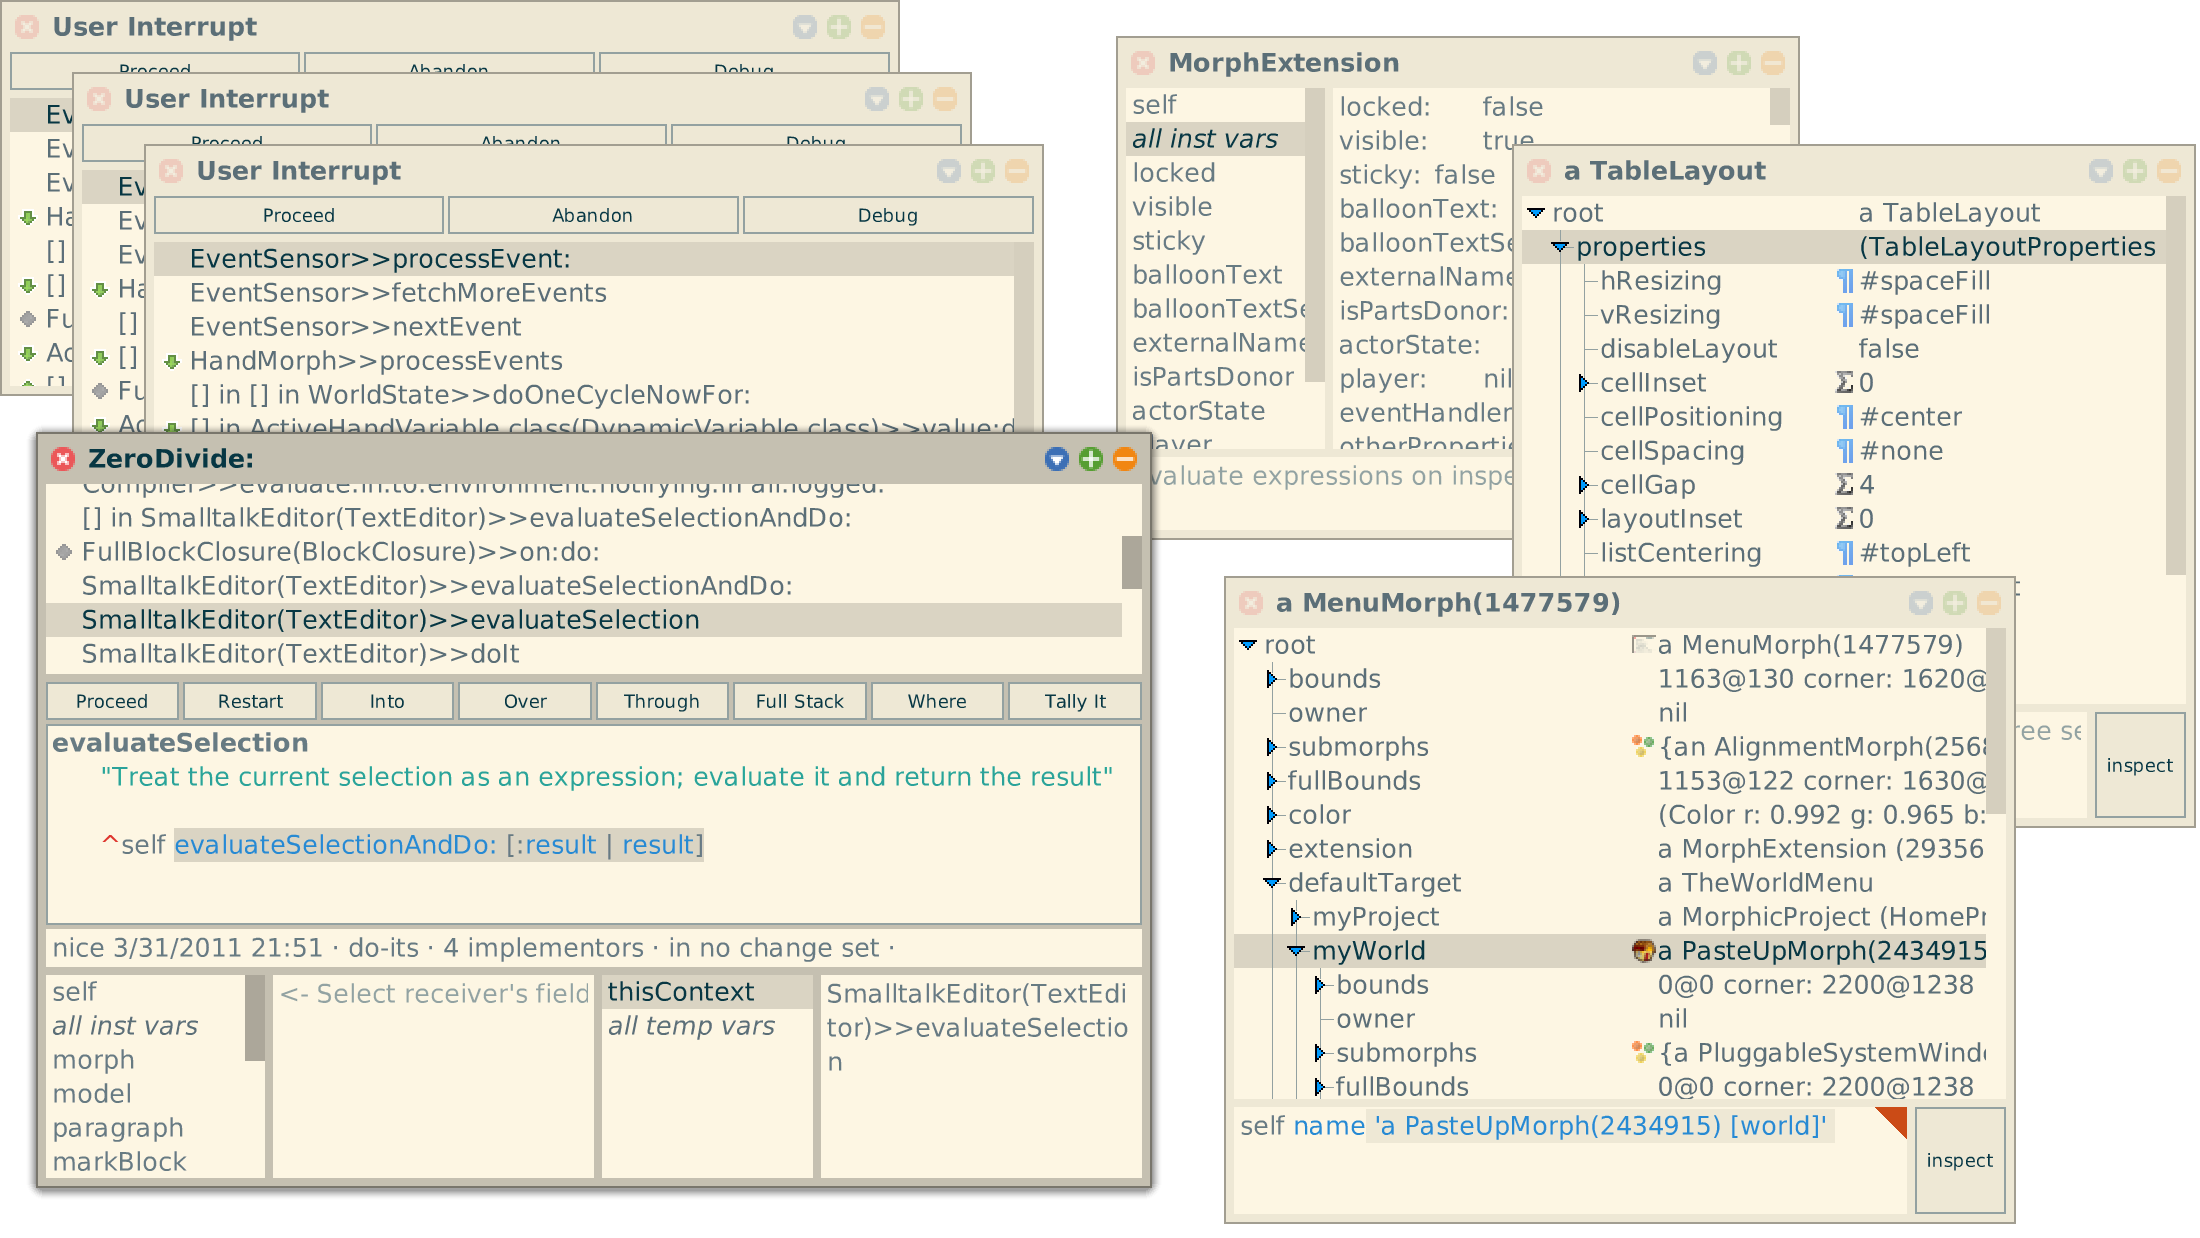
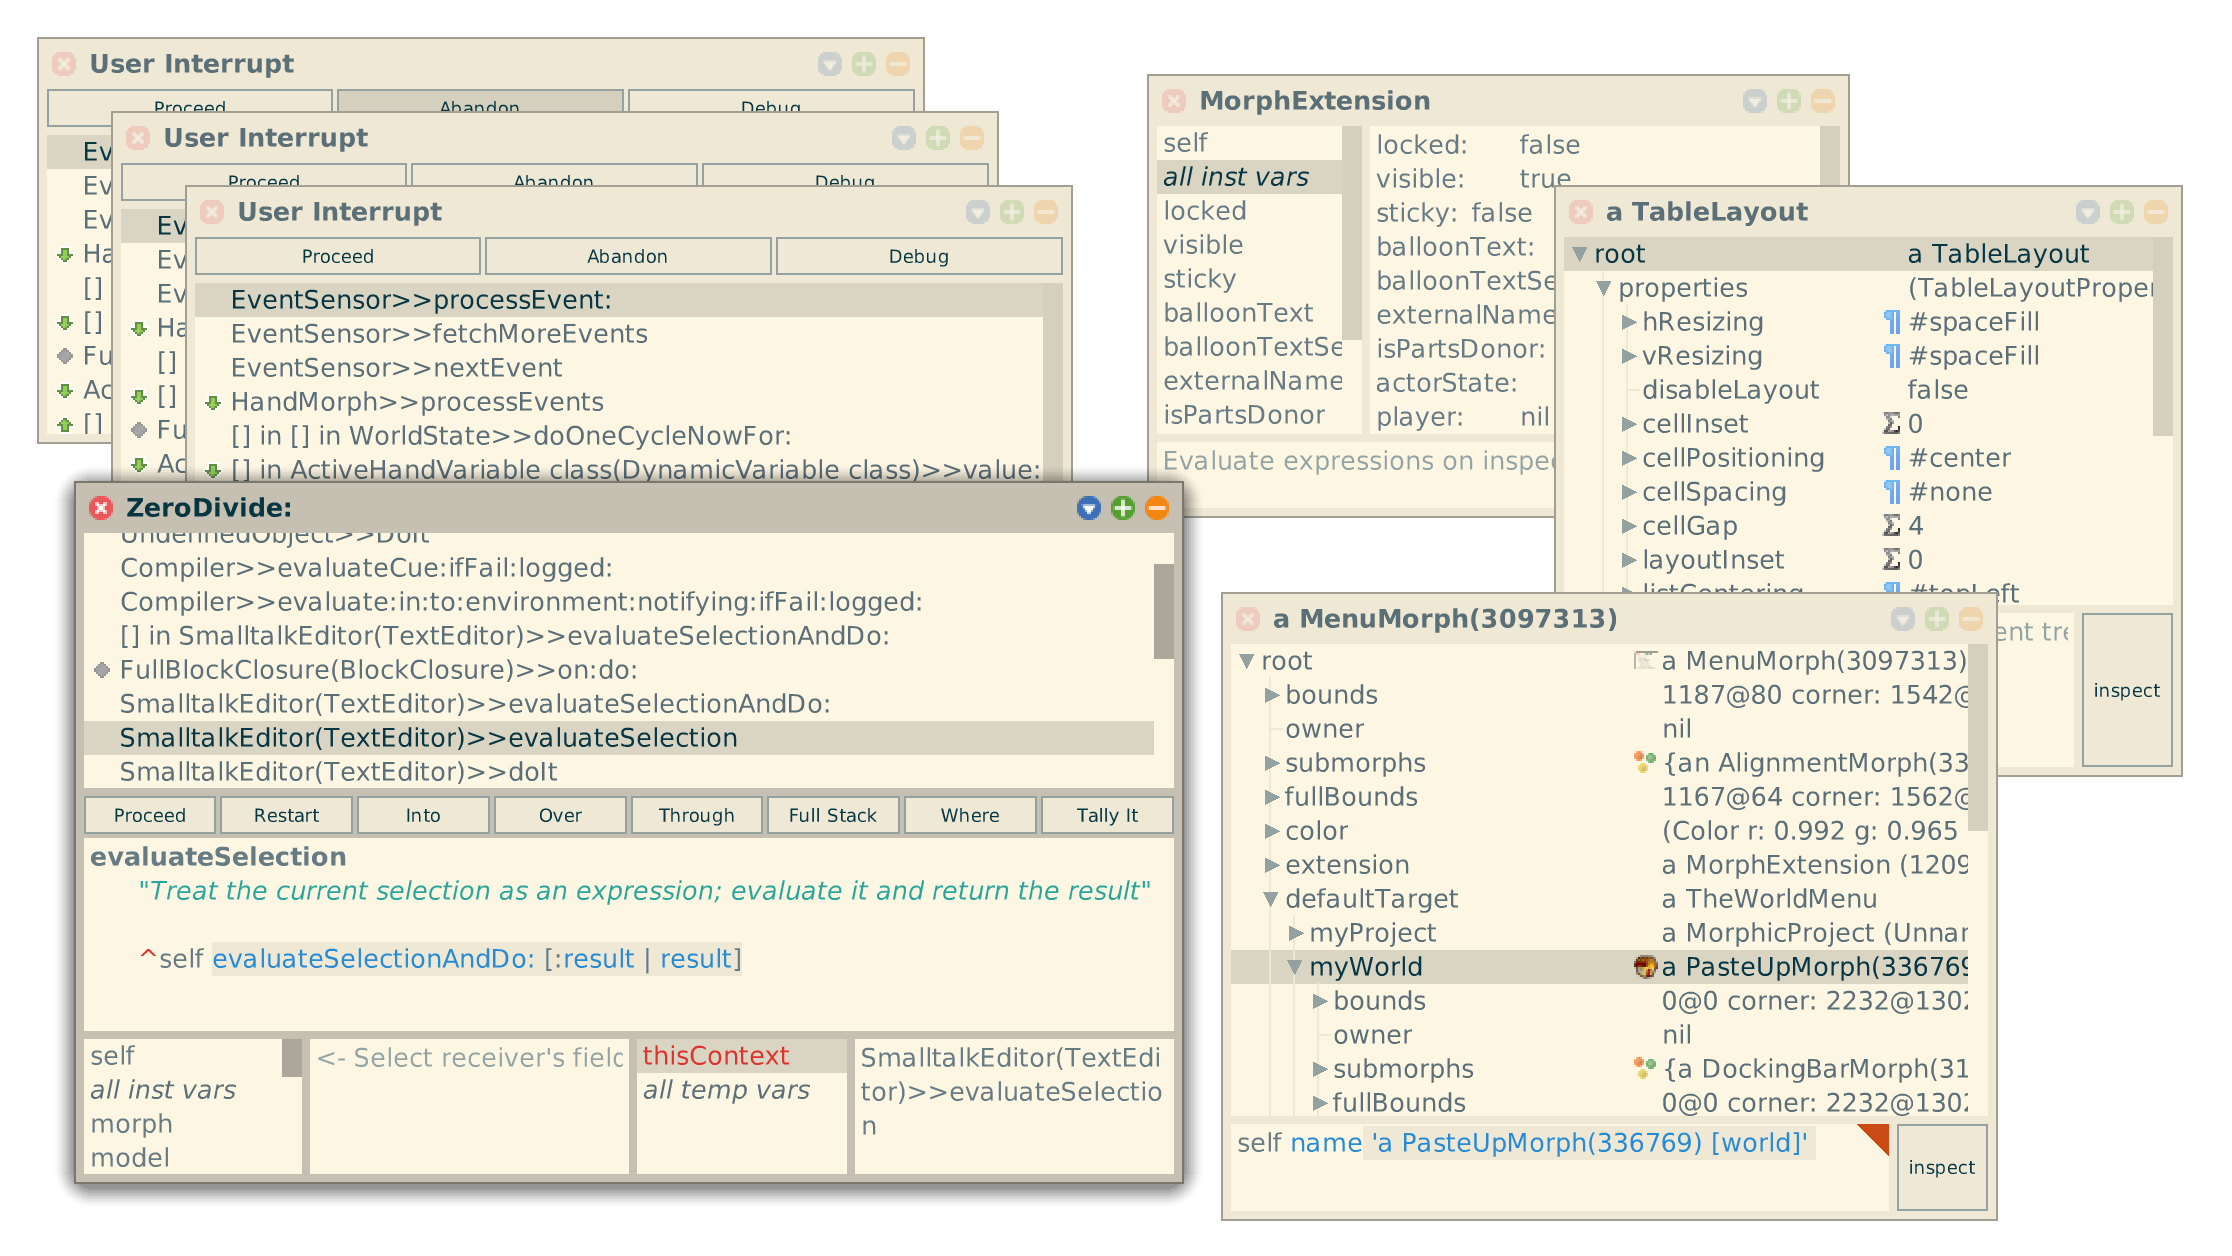
Add Squeak 6.1 info

diff --git a/index.html b/index.html
@@ -10,14 +10,14 @@ welcome: &welcome >
   and commerce.
 description: *welcome
 
-download_link_mac: https://files.squeak.org/6.0/Squeak6.0-22156-64bit/Squeak6.0-22156-64bit-202606270913-macOS.dmg
-download_link_win_x64: https://files.squeak.org/6.0/Squeak6.0-22156-64bit/Squeak6.0-22156-64bit-202606270913-Windows-x64.zip
-download_link_win_arm: https://files.squeak.org/6.0/Squeak6.0-22156-64bit/Squeak6.0-22156-64bit-202606270913-Windows-ARMv8.zip
-download_link_lin_x64: https://files.squeak.org/6.0/Squeak6.0-22156-64bit/Squeak6.0-22156-64bit-202606270913-Linux-x64.tar.gz
-download_link_lin_arm: https://files.squeak.org/6.0/Squeak6.0-22156-64bit/Squeak6.0-22156-64bit-202606270913-Linux-ARMv8.tar.gz
-download_link_all: https://files.squeak.org/6.0/Squeak6.0-22156-64bit/Squeak6.0-22156-64bit-All-in-One.zip
+download_link_mac: https://files.squeak.org/6.1/Squeak6.1-23976-64bit/Squeak6.1-23976-64bit-202606270913-macOS.dmg
+download_link_win_x64: https://files.squeak.org/6.1/Squeak6.1-23976-64bit/Squeak6.1-23976-64bit-202606270913-Windows-x64.zip
+download_link_win_arm: https://files.squeak.org/6.1/Squeak6.1-23976-64bit/Squeak6.1-23976-64bit-202606270913-Windows-ARMv8.zip
+download_link_lin_x64: https://files.squeak.org/6.1/Squeak6.1-23976-64bit/Squeak6.1-23976-64bit-202606270913-Linux-x64.tar.gz
+download_link_lin_arm: https://files.squeak.org/6.1/Squeak6.1-23976-64bit/Squeak6.1-23976-64bit-202606270913-Linux-ARMv8.tar.gz
+download_link_all: https://files.squeak.org/6.1/Squeak6.1-23976-64bit/Squeak6.1-23976-64bit-All-in-One.zip
 
-release_notes_link: /release_notes/6.0/
+release_notes_link: /release_notes/6.1/
 
 sub_button_group:
   - title:  News
@@ -73,13 +73,13 @@ screenshots:
   <b><a href="https://github.com/OpenSmalltalk/opensmalltalk-vm/releases/latest">New OSVM 2026.16</a></b> included in Squeak 5.3, 6.1, and Trunk bundles. <span>🎉</span> <b><a href="/downloads/">Now with Windows ARMv8 support!</a></b>
 </div> -->
 
-<!-- <div class="alert alert-info text-center" role="alert">
-  <b>Squeak-6.1 bundles are out. <span>🎉</span> <a href="/downloads/">Grab 'em while they're hot!</a> And have a look our <a href="/release_notes/6.1/">interactive release notes.</a></b>
+<div class="alert alert-info text-center" role="alert">
+  <b>Squeak-6.1 bundles are out. <span>🎉</span> <a href="/downloads/">Grab 'em while they're hot!</a> And have a look at our <a href="/release_notes/6.1/">interactive <span>🌈</span> release notes.</a></b>
 </div>
- -->
-<div class="alert alert-success text-center" role="alert">
+
+<!-- <div class="alert alert-success text-center" role="alert">
   <span>⌛</span>Do you <a href="https://wiki.squeak.org/squeak/1985">remember</a> how Squeak's story <a href="https://try.squeak.org/#url=images&zip=Squeak1.13u.zip&swapButtons=true">began</a>?<span>🔎</span>
-</div>
+</div> -->
 
 <!-- <div class="alert alert-warning text-center" role="alert">
   <span>🐭</span> Squeak Oversight Board Election 2024 <span>💪</span>

diff --git a/_downloads/all-in-one.md b/_downloads/all-in-one.md
@@ -12,26 +12,26 @@ On Windows, you must confirm a **SmartScreen** warning since executables are not
 
 |            | Version   | Support   | Link   |
 | ---------- |:--------- |:--------- | ------:|
-| macOS (unified)         | 6.0 | <i class="fa fa-apple"></i>   | [<i class="fa fa-download"></i>][mac]{:target=_blank} |
-| Windows (x64)       | 6.0 | <i class="fa fa-windows"></i> | [<i class="fa fa-download"></i>][win_x64]{:target=_blank} |
-| Windows (ARMv8)     | 6.0 | <i class="fa fa-windows"></i> | [<i class="fa fa-download"></i>][win_arm]{:target=_blank} |
-| Linux (x64)         | 6.0 | <i class="fa fa-linux"></i>   | [<i class="fa fa-download"></i>][lin_x64]{:target=_blank} |
-| Linux (ARMv8)       | 6.0 | <i class="fa fa-linux"></i>   | [<i class="fa fa-download"></i>][lin_arm]{:target=_blank} |
-| All-in-One (64-bit) | 6.0 | <i class="fa fa-windows"></i> <i class="fa fa-apple"></i> <i class="fa fa-linux"></i> | [<i class="fa fa-download"></i>][all]{:target=_blank} |
-| 32-bit Bundles      | 6.0 | <i class="fa fa-windows"></i> <i class="fa fa-linux"></i> | [<i class="fa fa-external-link"></i>][32]{:target=_blank} |
-| Try in browser (slow) | 6.0 | <i class="fa fa-laptop"></i> <i class="fa fa-tablet"></i> <i class="fa fa-mobile"></i>   | [<i class="fa fa-globe"></i>][squeakjs]{:target=_blank} |
+| macOS (unified)         | 6.1 | <i class="fa fa-apple"></i>   | [<i class="fa fa-download"></i>][mac]{:target=_blank} |
+| Windows (x64)       | 6.1 | <i class="fa fa-windows"></i> | [<i class="fa fa-download"></i>][win_x64]{:target=_blank} |
+| Windows (ARMv8)     | 6.1 | <i class="fa fa-windows"></i> | [<i class="fa fa-download"></i>][win_arm]{:target=_blank} |
+| Linux (x64)         | 6.1 | <i class="fa fa-linux"></i>   | [<i class="fa fa-download"></i>][lin_x64]{:target=_blank} |
+| Linux (ARMv8)       | 6.1 | <i class="fa fa-linux"></i>   | [<i class="fa fa-download"></i>][lin_arm]{:target=_blank} |
+| All-in-One (64-bit) | 6.1 | <i class="fa fa-windows"></i> <i class="fa fa-apple"></i> <i class="fa fa-linux"></i> | [<i class="fa fa-download"></i>][all]{:target=_blank} |
+| 32-bit Bundles      | 6.1 | <i class="fa fa-windows"></i> <i class="fa fa-linux"></i> | [<i class="fa fa-external-link"></i>][32]{:target=_blank} |
+| Try in browser (slow) | 6.1 | <i class="fa fa-laptop"></i> <i class="fa fa-tablet"></i> <i class="fa fa-mobile"></i>   | [<i class="fa fa-globe"></i>][squeakjs]{:target=_blank} |
 {:.table .table-condensed .max-width-450-lg}
 
-You can also browse the interactive release notes **[here][release_notes]**.
+Have a look at our interactive <span>🌈</span> release notes **[here][release_notes]**.
 
 <span>❤</span> Please help us keep our infrastructure up and running, which includes this website, our mailing lists, and code repositories. <b><a href="#" class="donate-button">Donate here...</a></b> <span>❤</span>
 
-[mac]: https://files.squeak.org/6.0/Squeak6.0-22156-64bit/Squeak6.0-22156-64bit-202606270913-macOS.dmg
-[win_x64]: https://files.squeak.org/6.0/Squeak6.0-22156-64bit/Squeak6.0-22156-64bit-202606270913-Windows-x64.zip
-[win_arm]: https://files.squeak.org/6.0/Squeak6.0-22156-64bit/Squeak6.0-22156-64bit-202606270913-Windows-ARMv8.zip
-[lin_x64]: https://files.squeak.org/6.0/Squeak6.0-22156-64bit/Squeak6.0-22156-64bit-202606270913-Linux-x64.tar.gz
-[lin_arm]: https://files.squeak.org/6.0/Squeak6.0-22156-64bit/Squeak6.0-22156-64bit-202606270913-Linux-ARMv8.tar.gz
-[all]: https://files.squeak.org/6.0/Squeak6.0-22156-64bit/Squeak6.0-22156-64bit-All-in-One.zip
-[32]: https://files.squeak.org/6.0/Squeak6.0-22156-32bit/
-[squeakjs]: https://squeak.js.org/run/#zip=https://files.squeak.org/6.0/Squeak6.0-22156-32bit/Squeak6.0-22156-32bit.zip
-[release_notes]: /release_notes/6.0/
+[mac]: https://files.squeak.org/6.1/Squeak6.1-23976-64bit/Squeak6.1-23976-64bit-202606270913-macOS.dmg
+[win_x64]: https://files.squeak.org/6.1/Squeak6.1-23976-64bit/Squeak6.1-23976-64bit-202606270913-Windows-x64.zip
+[win_arm]: https://files.squeak.org/6.1/Squeak6.1-23976-64bit/Squeak6.1-23976-64bit-202606270913-Windows-ARMv8.zip
+[lin_x64]: https://files.squeak.org/6.1/Squeak6.1-23976-64bit/Squeak6.1-23976-64bit-202606270913-Linux-x64.tar.gz
+[lin_arm]: https://files.squeak.org/6.1/Squeak6.1-23976-64bit/Squeak6.1-23976-64bit-202606270913-Linux-ARMv8.tar.gz
+[all]: https://files.squeak.org/6.1/Squeak6.1-23976-64bit/Squeak6.1-23976-64bit-All-in-One.zip
+[32]: https://files.squeak.org/6.1/Squeak6.1-23976-32bit/
+[squeakjs]: https://squeak.js.org/run/#zip=https://files.squeak.org/6.1/Squeak6.1-23976-32bit/Squeak6.1-23976-32bit.zip
+[release_notes]: /release_notes/6.1/

diff --git a/_downloads/history_v6x.md b/_downloads/history_v6x.md
@@ -9,17 +9,23 @@ img-border: true
 
 |                | Version   | Date     | Link                                                         |
 | -------------- |:--------- |:--------:| ------------------------------------------------------------:|
+| 64-bit Bundles | 6.1       | Aug 2026 | [<i class="fa fa-external-link"></i>][61_64]{:target=_blank} |
+| 32-bit Bundles | 6.1       | Aug 2026 | [<i class="fa fa-external-link"></i>][61_32]{:target=_blank} |
 | 64-bit Bundles | 6.0       | Jul 2022 | [<i class="fa fa-external-link"></i>][60_64]{:target=_blank} |
 | 32-bit Bundles | 6.0       | Jul 2022 | [<i class="fa fa-external-link"></i>][60_32]{:target=_blank} |
 |
 | Sources        | 6.0       | Jul 2022 | [<i class="fa fa-download"></i>][60s]{:target=_blank}        |
 |                |           |          |                                                              |
+| Release Notes  | 6.1       |          | [<i class="fa fa-external-link"></i>][61r]{:target=_blank}   |
 | Release Notes  | 6.0       |          | [<i class="fa fa-external-link"></i>][60r]{:target=_blank}   |
 {:.table .table-condensed}
 
+[61_32]: https://files.squeak.org/6.1/Squeak6.1-23976-32bit/
+[61_64]: https://files.squeak.org/6.1/Squeak6.1-23976-64bit/
 [60_32]: https://files.squeak.org/6.0/Squeak6.0-22156-32bit/
 [60_64]: https://files.squeak.org/6.0/Squeak6.0-22156-64bit/
 
 [60s]: https://files.squeak.org/sources_files/SqueakV60.sources.gz
 
+[61r]: /release_notes/6.1/
 [60r]: /release_notes/6.0/

diff --git a/_downloads/image_changes.md b/_downloads/image_changes.md
@@ -9,12 +9,12 @@ The image file contains a snapshot of all living objects in Squeak. The changes 
 
 |                | Version      | Link                                                      |
 | -------------- |:------------ | ---------------------------------------------------------:|
-| Release (64-bit) | 6.0-22156    | [<i class="fa fa-download"></i>][stable_64]{:target=_blank}   |
-| Release (32-bit) | 6.0-22156    | [<i class="fa fa-download"></i>][stable]{:target=_blank}      |
-| Trunk            | 6.1alpha     | [<i class="fa fa-external-link"></i>][trunk]{:target=_blank}  |
+| Release (64-bit) | 6.1-23976    | [<i class="fa fa-download"></i>][stable_64]{:target=_blank}   |
+| Release (32-bit) | 6.1-23976    | [<i class="fa fa-download"></i>][stable]{:target=_blank}      |
+| Trunk            | 6.2alpha     | [<i class="fa fa-external-link"></i>][trunk]{:target=_blank}  |
 {:.table .table-condensed}
 
-[stable]: https://files.squeak.org/6.0/Squeak6.0-22156-32bit/Squeak6.0-22156-32bit.zip
-[stable_64]: https://files.squeak.org/6.0/Squeak6.0-22156-64bit/Squeak6.0-22156-64bit.zip
+[stable]: https://files.squeak.org/6.1/Squeak6.1-23976-32bit/Squeak6.1-23976-32bit.zip
+[stable_64]: https://files.squeak.org/6.1/Squeak6.1-23976-64bit/Squeak6.1-23976-64bit.zip
 
 [trunk]: https://files.squeak.org/trunk/
